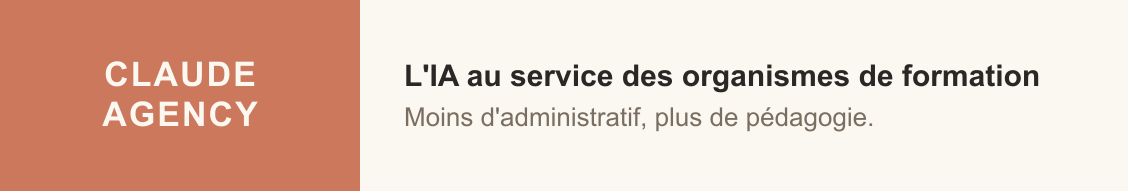
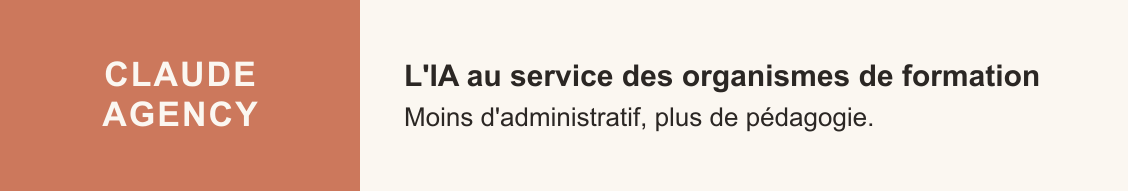
Corrige les visuels LinkedIn: palette stricte à 3 couleurs
Bannière et gabarit de post ne contenaient pas que #FBF7F1/#CC785C/#2B2724
comme demandé (muted #7A6E60 et sand #E5D9C7 encore présents). Remplacés
par les 3 couleurs autorisées, PNG régénérés. Journal SEO à jour (entrée 40).

Changed region(s): [[0.3413, 0.5497, 0.7757, 0.7068]]

diff --git a/docs/seo/JOURNAL.md b/docs/seo/JOURNAL.md
@@ -5,6 +5,28 @@ Une action SEO sans entrée ici n'existe pas pour les sessions suivantes.
 
 ---
 
+## 2026-08-18 (40) — Visuels LinkedIn (bannière + gabarit de post) générés localement
+
+**Type :** prospection LinkedIn, hors périmètre SEO (préparation de la page entreprise, suite des
+entrées 38-39).
+
+**Pourquoi :** amorcer la page entreprise LinkedIn « Claude Agency » (étape B7) avec des visuels à
+la charte, sans dépendance à un service externe.
+
+**Fait :** 2 SVG source + 2 PNG générés via `app/scripts/svg-to-png-linkedin.mjs` (sharp, en local) :
+bannière page entreprise (1128×191) et gabarit de post réutilisable (1080×1080, zone de titre à
+remplir). Palette strictement limitée aux 3 couleurs demandées : `#FBF7F1` (crème), `#CC785C`
+(terracotta), `#2B2724` (encre) — vérifié par grep sur les 2 SVG après une première version qui
+utilisait aussi les neutres `#7A6E60`/`#E5D9C7` de `DESIGN.md`, corrigée sur retour de Julien.
+Fichiers dans `docs/seo/visuels-linkedin/`.
+
+**Mesure :** 2 SVG, 2 PNG aux dimensions exactes demandées, 3 couleurs uniques par fichier.
+
+**Suite :** SOLOHERY charge `banniere-page-entreprise.png` comme image de couverture de la page
+entreprise LinkedIn une fois celle-ci créée (crayon « Modifier la page » → Image de couverture).
+
+---
+
 ## 2026-08-18 (39) — Liste de prospection LinkedIn — un lien LinkedIn confirmé par recoupement
 
 **Type :** prospection LinkedIn, hors périmètre SEO (suite de l'entrée 38).
